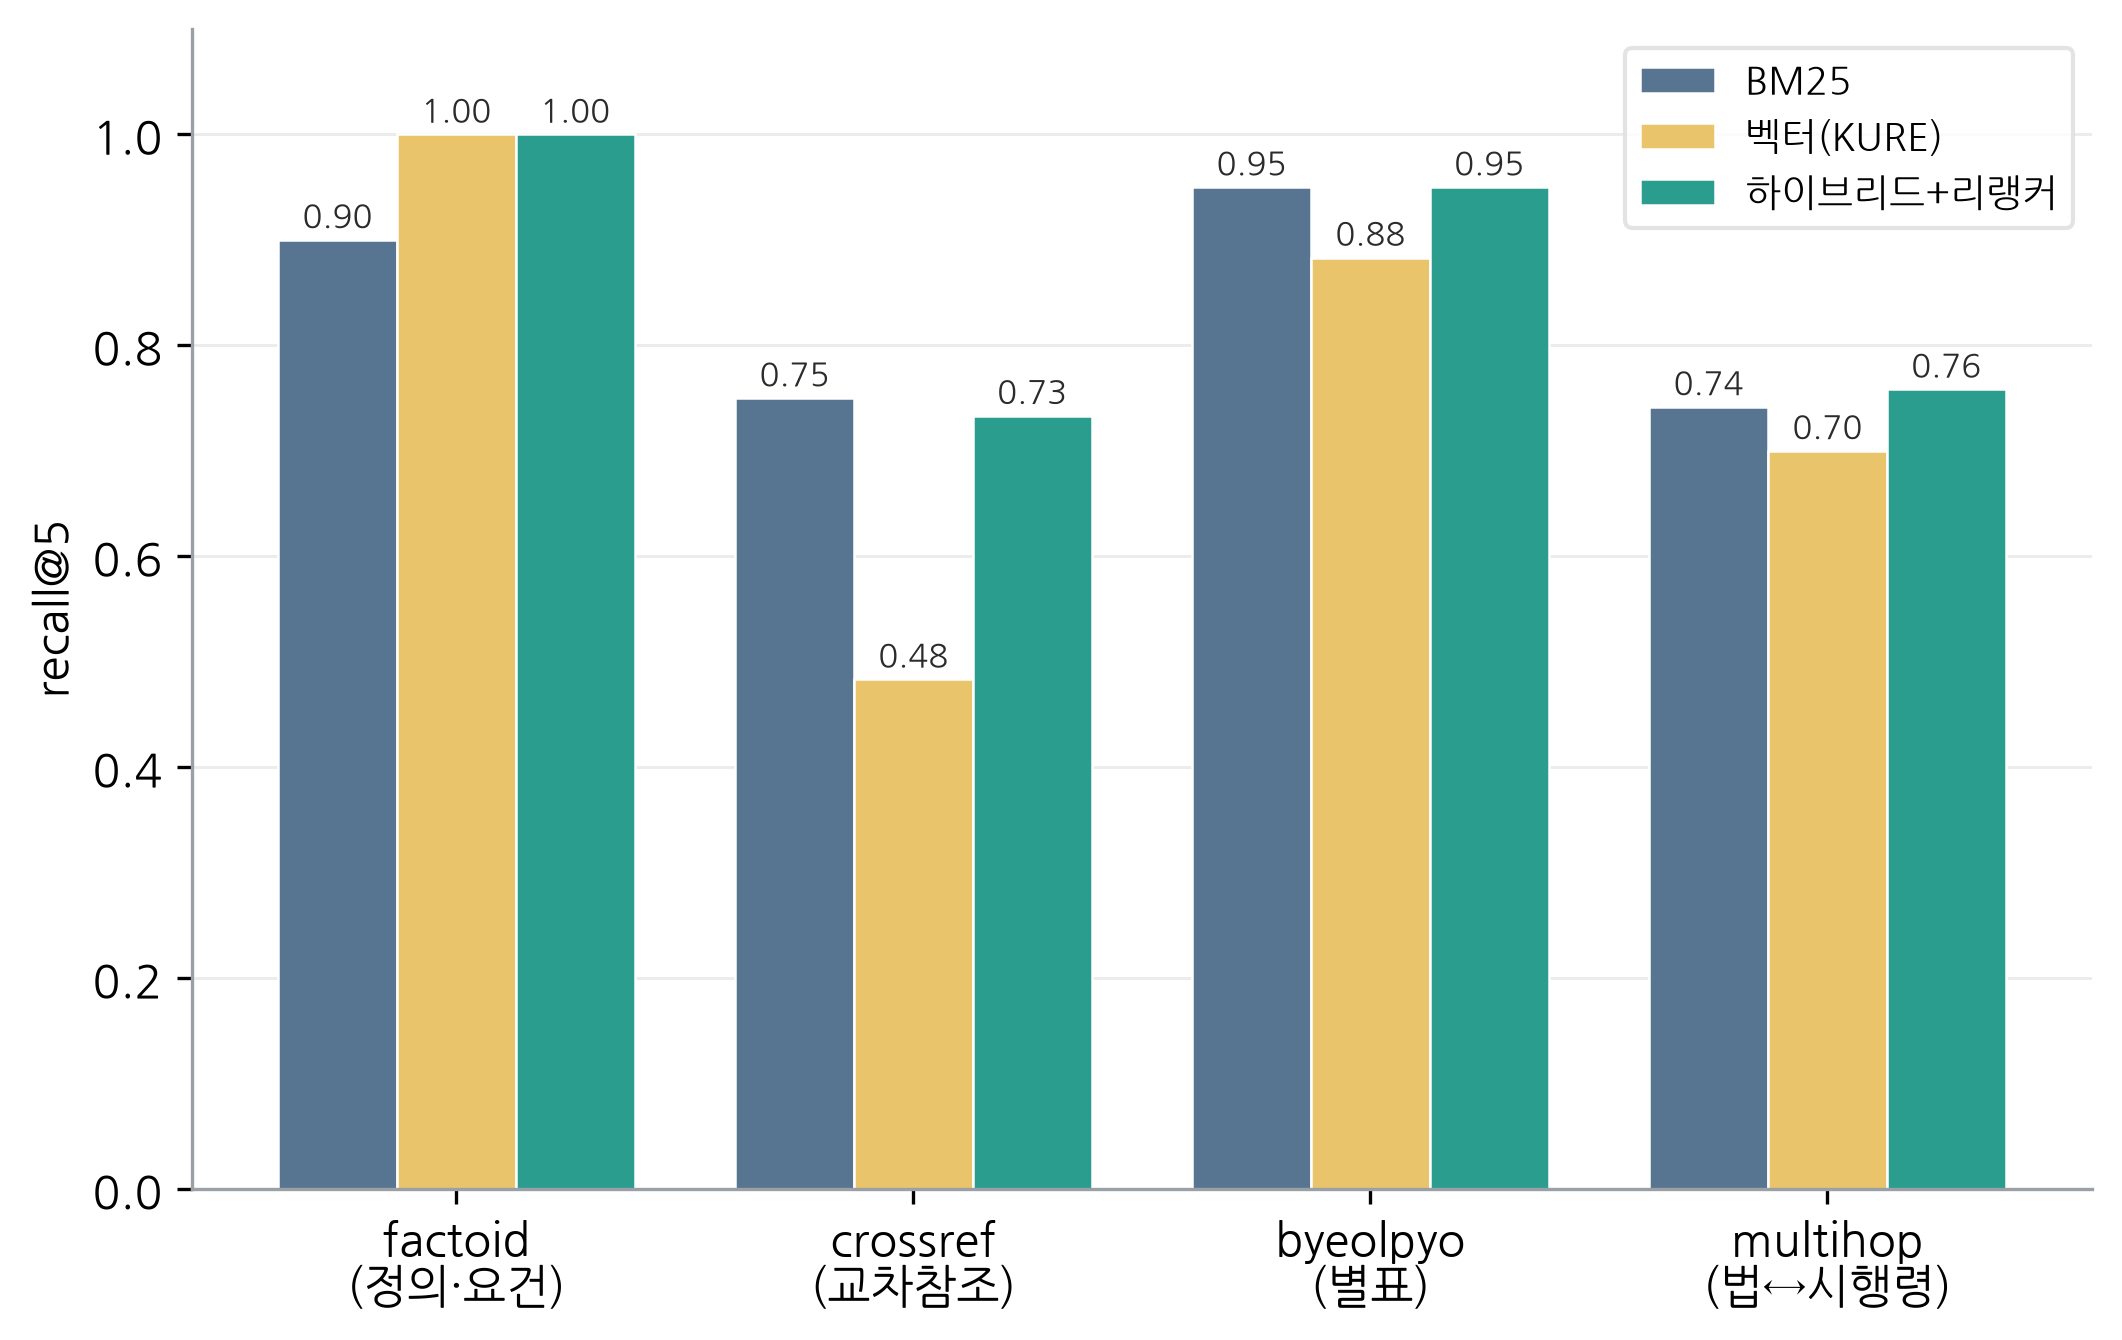
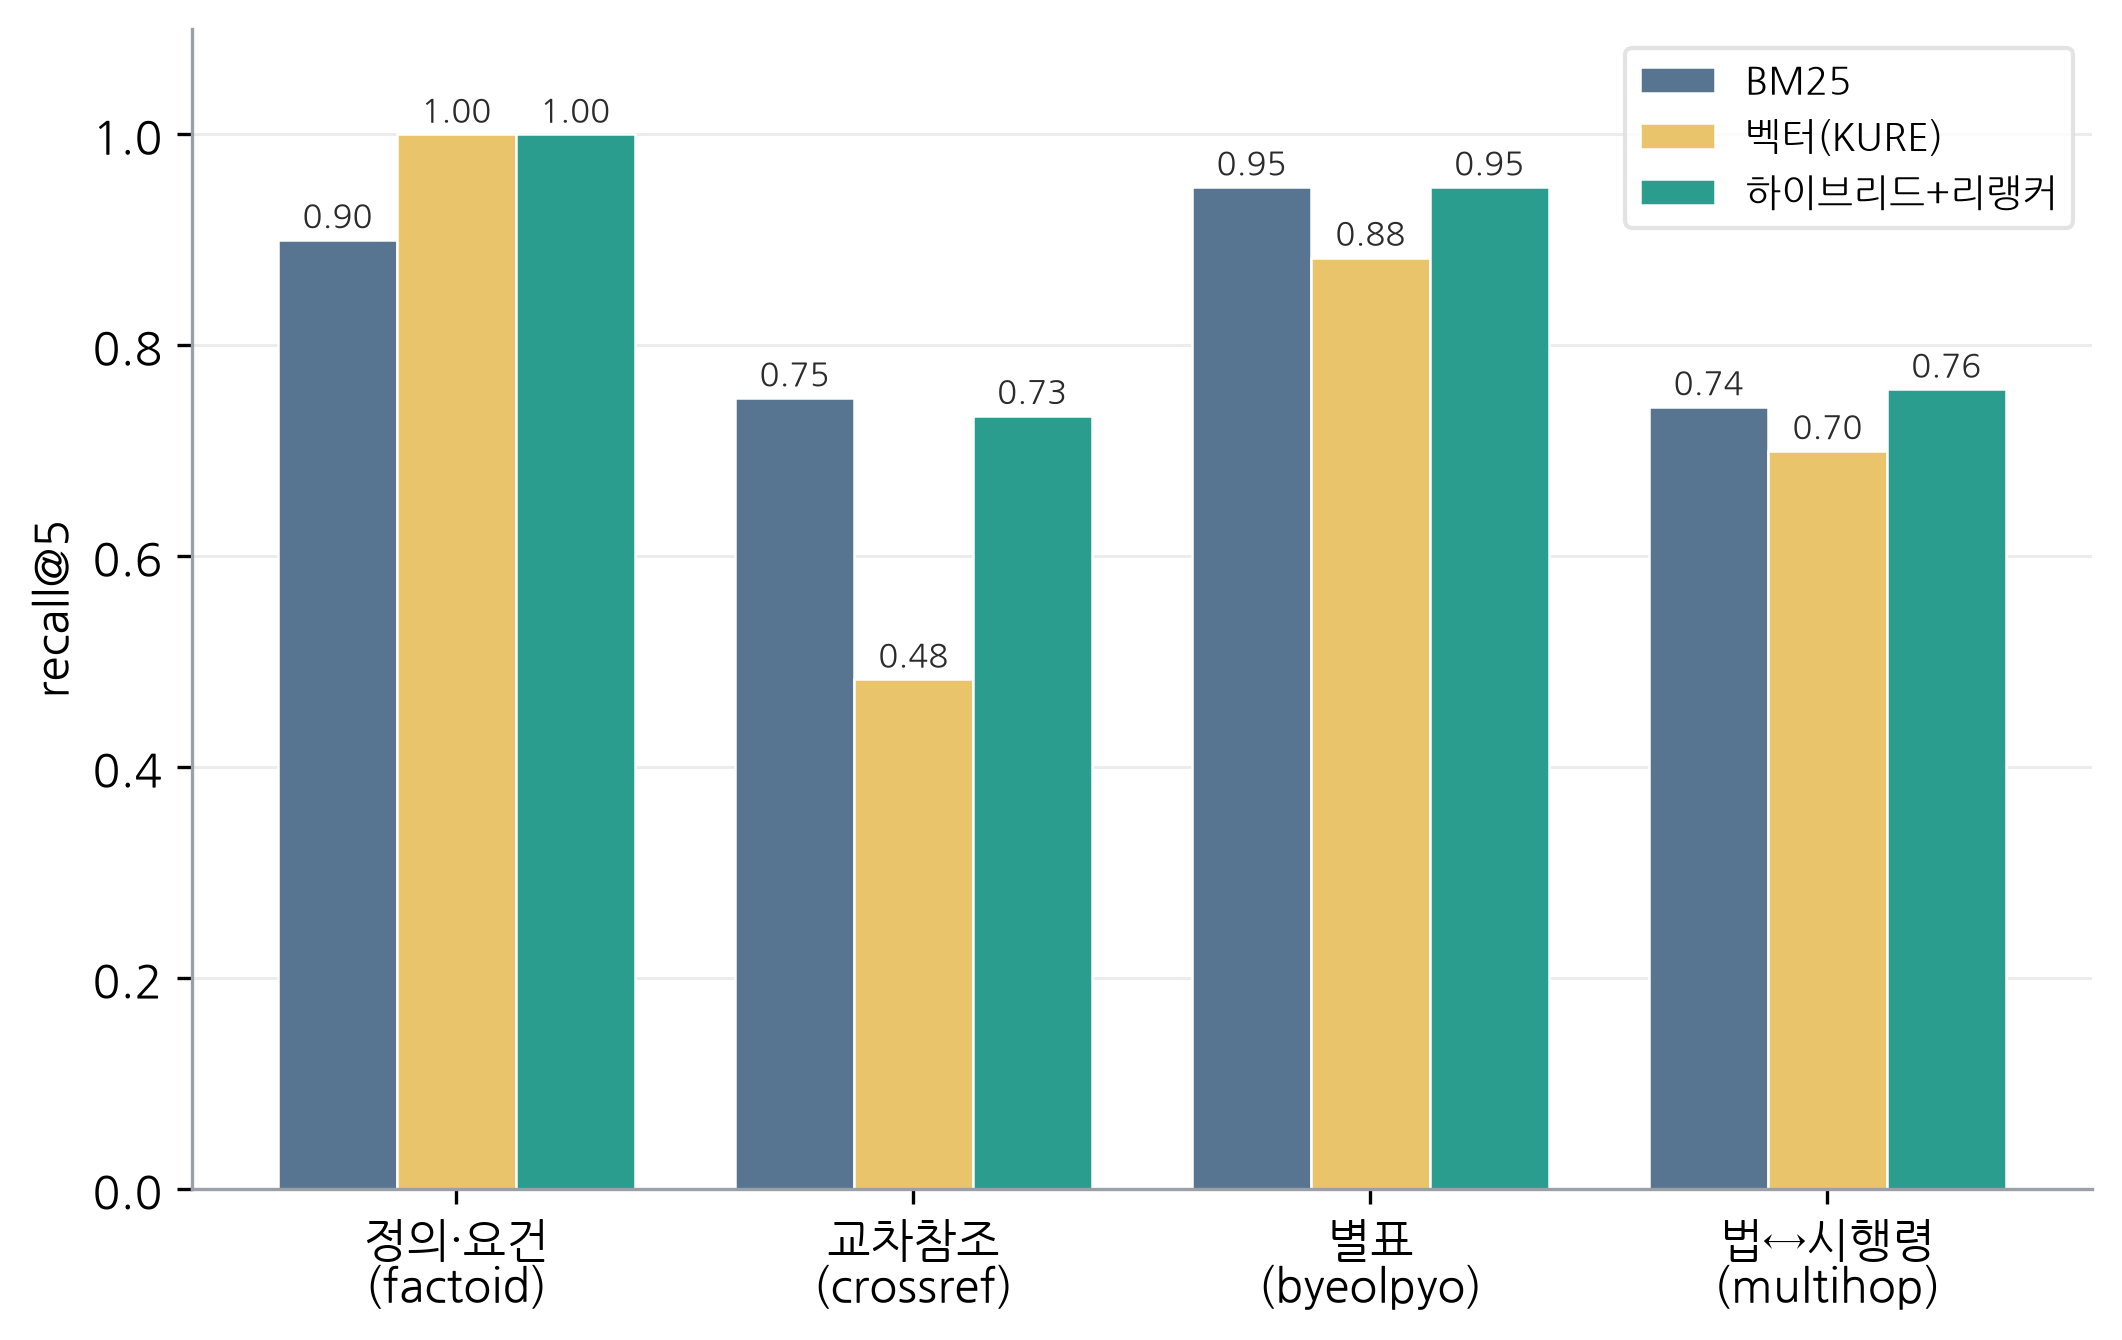
§2.4.4 점검 + 어색 표현 다수 손질 + 그림2·3 x틱 정비
§2.4.4 Locator:
- "정답이 위치로 정해지며" → "내용이 아니라 위치로", "벡터 검색"→"RAG 검색"
- 표 5 헤더 군더더기 "(recall@5)" 제거
- 자카르고 "브레드크럼" → "청크 머리말의 경로 표기"
- "top-k에 담기" → "넣기"

어색·번역투 일괄:
- "그림 2~5에 담았다" → "있다"
- "기저" 전수 제거: baseline 뜻 → "증강 전", base config 뜻 → "검색 구성"(§5 포함)
- "인기 증강기법" → "널리 쓰이는", "기여를 따로 측정" → "얼마나 기여하는지 측정"
- 표 2 LightRAG "naive보다 낮음" → "단순 벡터 검색보다 낮음"
- factoid/crossref → 정의·요건(factoid)·교차참조(crossref) 한글(영어) 표기
- 표 3 헤더 "+HyDE" → "w. HyDE" 스타일

그림(make_figures.py):
- 그림 2 x틱 괄호 영문 제거(조·항·고정토큰·계층)
- 그림 3 x틱 한글 주·영문 괄호로 정렬(정의·요건(factoid) 등)

diff --git a/benchmark/make_figures.py b/benchmark/make_figures.py
@@ -110,8 +110,8 @@ def f0_pipeline():
 
 # ===== 청킹 비교 (E1, recall@5) =====
 def f_chunking():
-    chunkers = [("조(article)", "article"), ("항(hang)", "hang"),
-                ("고정토큰(fixed)", "fixed"), ("계층(parent)", "parent")]
+    chunkers = [("조", "article"), ("항", "hang"),
+                ("고정토큰", "fixed"), ("계층", "parent")]
     bm25 = [rpt(f"{c}_bm25.json")["overall"]["recall@5"] for _, c in chunkers]
     vec = [rpt(f"{c}_vector_kure-v1.json")["overall"]["recall@5"] for _, c in chunkers]
     x = np.arange(len(chunkers))
@@ -149,7 +149,7 @@ def f2_by_type():
         for b, v in zip(bars, vals):
             ax.text(b.get_x() + b.get_width() / 2, v + 0.012, f"{v:.2f}", ha="center", fontsize=8, color=INK)
     ax.set_xticks(x)
-    ax.set_xticklabels(["factoid\n(정의·요건)", "crossref\n(교차참조)", "byeolpyo\n(별표)", "multihop\n(법↔시행령)"])
+    ax.set_xticklabels(["정의·요건\n(factoid)", "교차참조\n(crossref)", "별표\n(byeolpyo)", "법↔시행령\n(multihop)"])
     ax.set_ylabel("recall@5")
     ax.set_ylim(0, 1.1)
     ax.legend(fontsize=9, frameon=True, edgecolor="#dddddd")